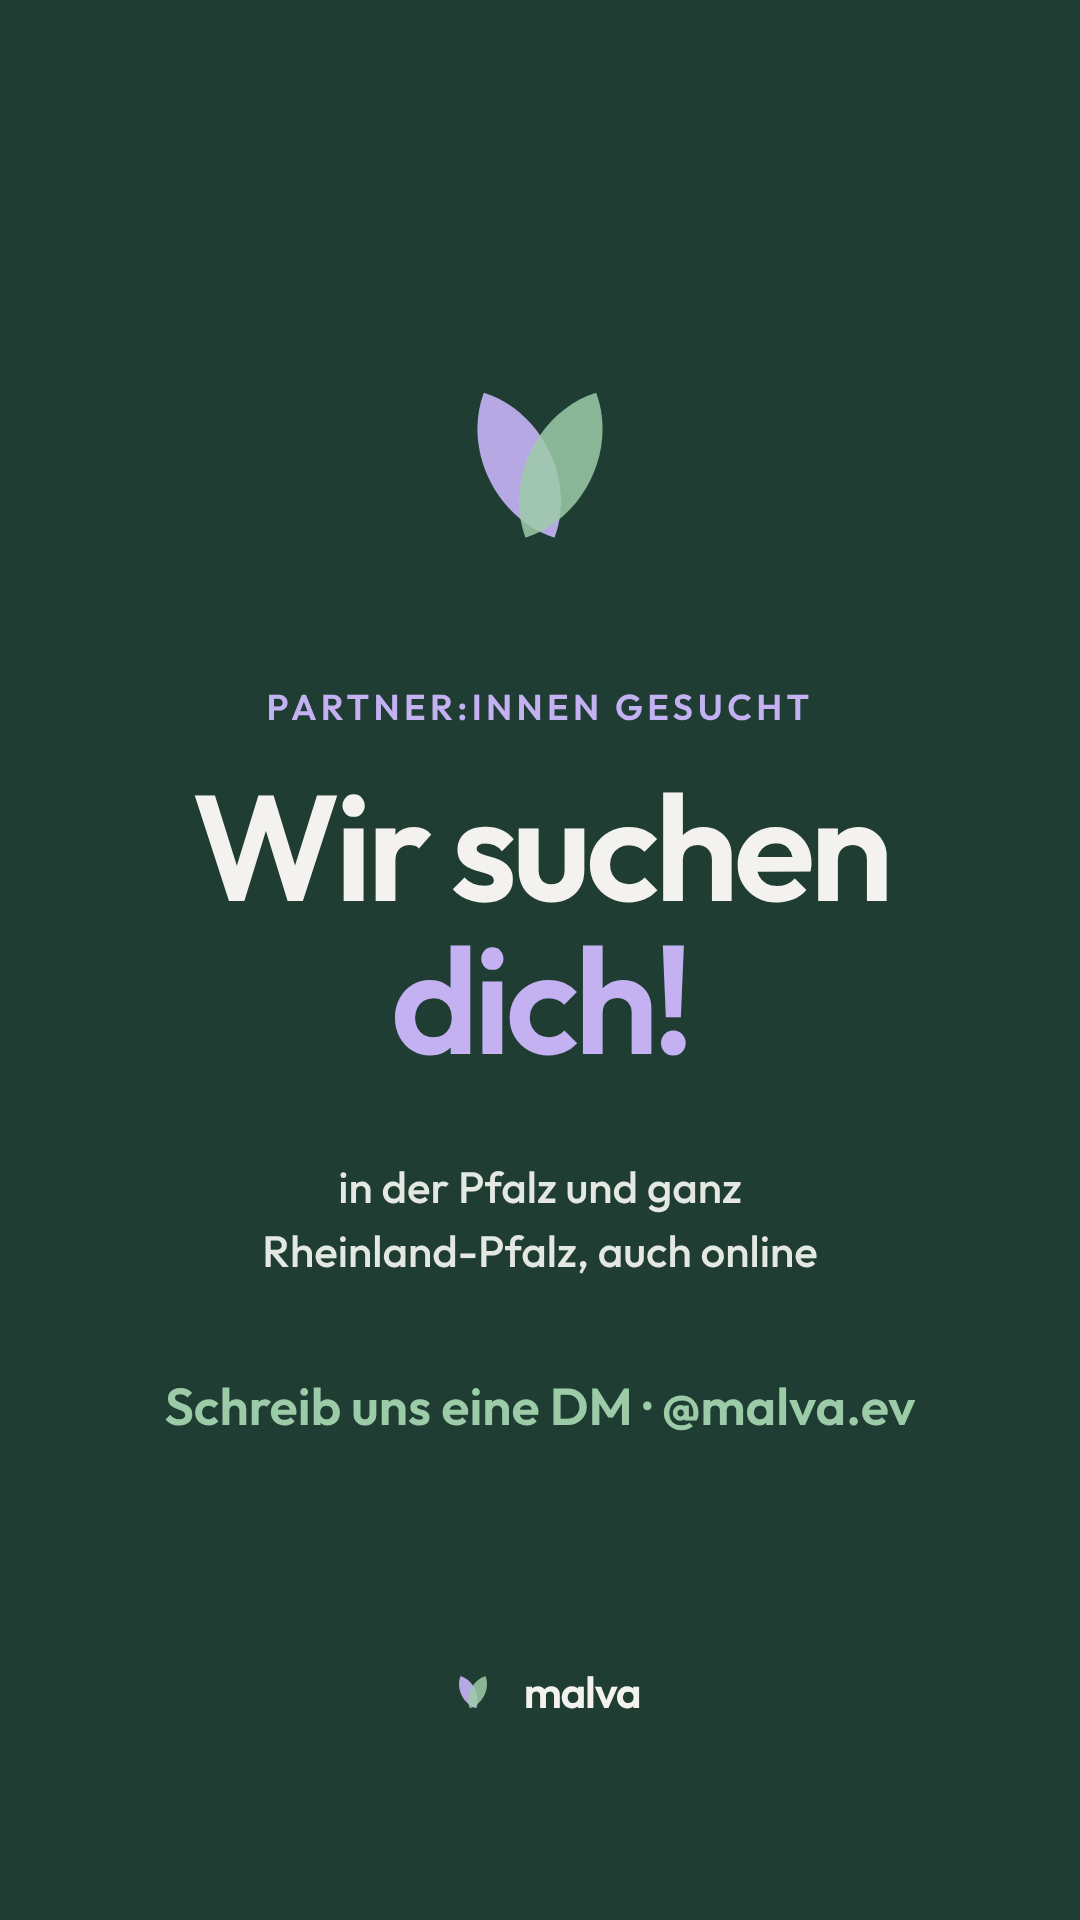
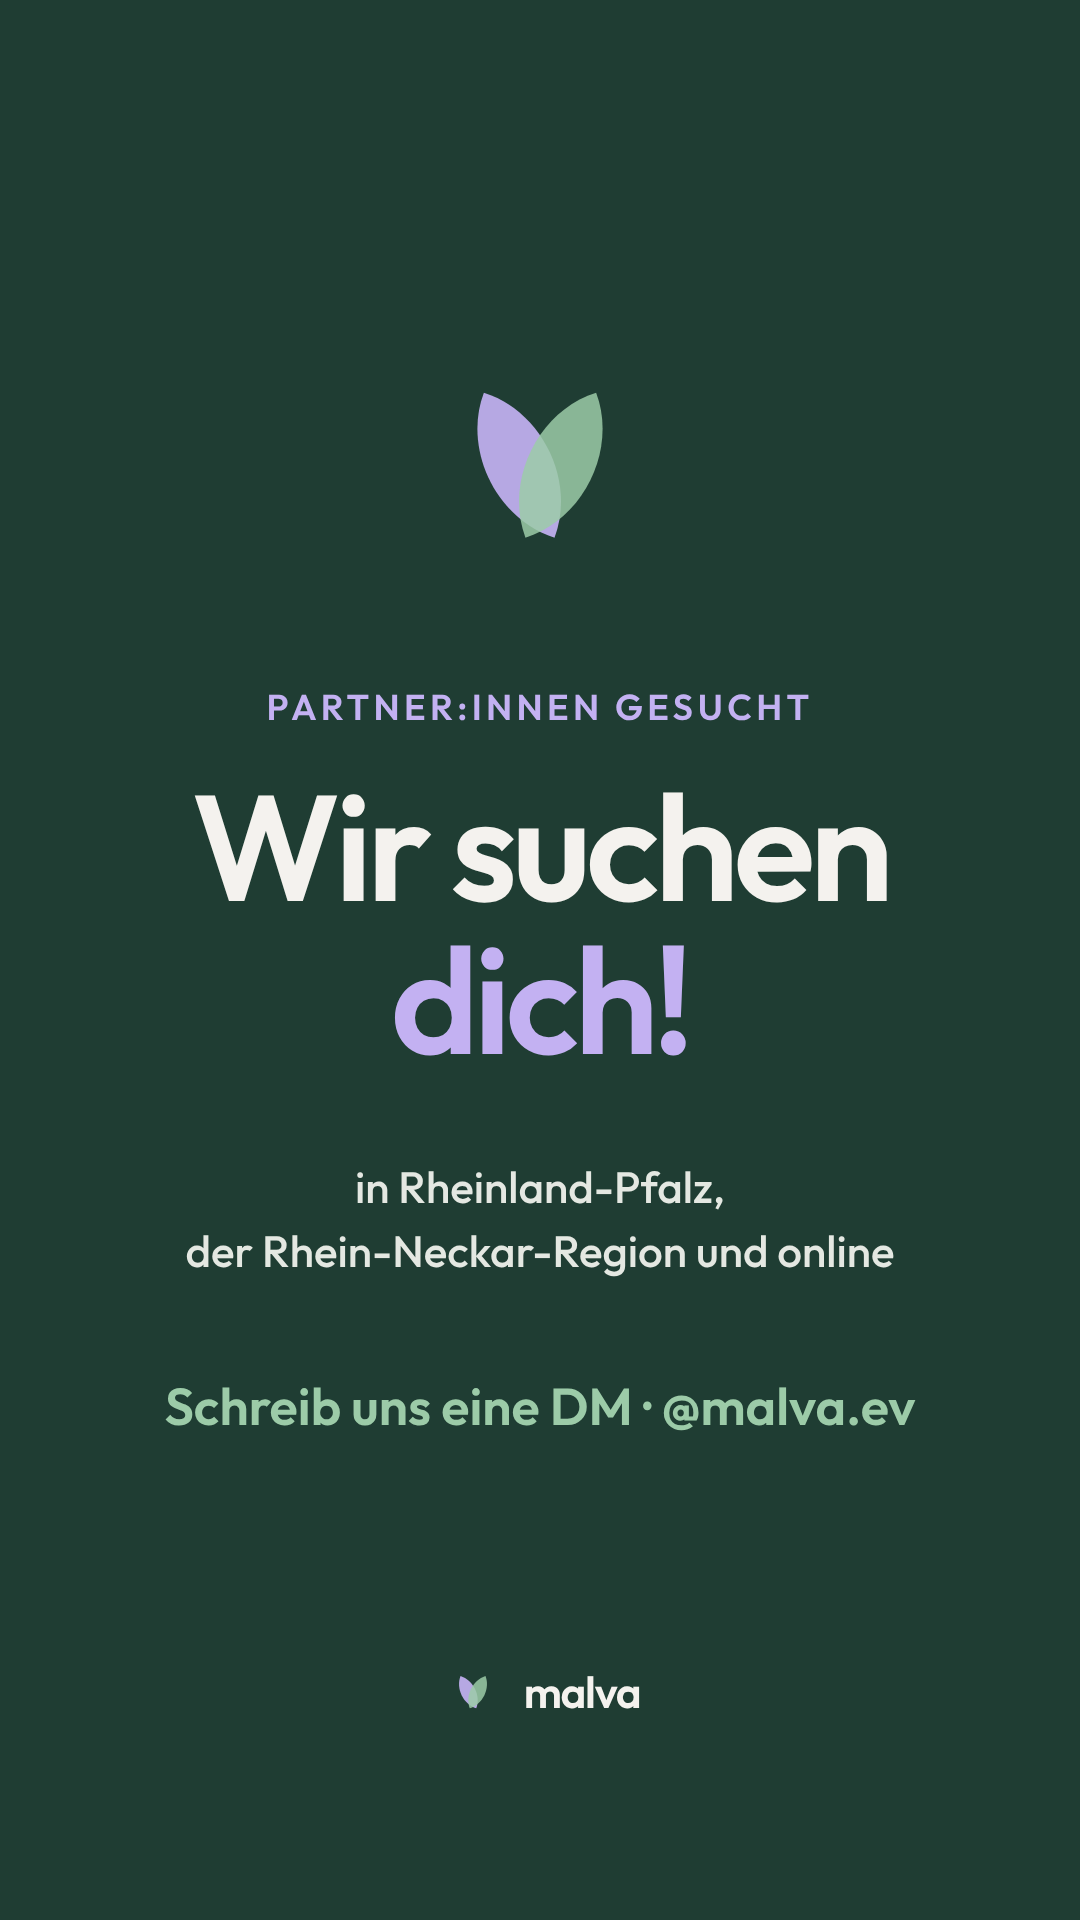
Partner-Post: Rheinland-Pfalz, Rhein-Neckar-Region und online
Claude-Session: https://claude.ai/code/session_015uEer6M6e5oi78ZvJtGjnt

Changed region(s): [[0.3056, 0.5938, 0.825, 0.6875], [0.1833, 0.625, 0.2139, 0.6562]]

diff --git a/malva-website/instagram/partner-gesucht/slides.html b/malva-website/instagram/partner-gesucht/slides.html
@@ -42,14 +42,14 @@ h2{font-weight:600;font-size:82px;line-height:1.12;letter-spacing:-.025em}
   <div class="mark-top" data-mark="d"></div>
   <p class="kicker">Partner:innen gesucht</p>
   <h1 style="font-size:132px">Wir suchen<br><span class="hl">dich!</span></h1>
-  <p class="body">in der Pfalz und ganz Rheinland-Pfalz,<br>auch online</p>
+  <p class="body">in Rheinland-Pfalz,<br><span style="white-space:nowrap">der Rhein-Neckar-Region</span> und online</p>
   <div class="foot"><div class="brand" data-mark="d"><span>malva</span></div><span class="more">Mehr erfahren →</span></div>
 </section>
 
 <section class="slide dark" id="s2">
   <p class="kicker">Warum wir dich brauchen</p>
   <h2>Hilfe braucht Menschen, <span class="hl">die helfen.</span></h2>
-  <p class="body">Malva will Kosten für Therapie und Beratung übernehmen und an passende Fachleute vermitteln. Dafür bauen wir ein Netzwerk in Rheinland-Pfalz auf, vor Ort und online.</p>
+  <p class="body">Malva will Kosten für Therapie und Beratung übernehmen und an passende Fachleute vermitteln. Dafür bauen wir ein Netzwerk in Rheinland-Pfalz und der <span style="white-space:nowrap">Rhein-Neckar-Region</span> auf, vor Ort und online.</p>
   <div class="foot"><div class="brand" data-mark="d"><span>malva</span></div><span class="num">2/6</span></div>
 </section>
 
@@ -94,7 +94,7 @@ h2{font-weight:600;font-size:82px;line-height:1.12;letter-spacing:-.025em}
   <div class="mark-top" style="width:260px" data-mark="d"></div>
   <p class="kicker">Partner:innen gesucht</p>
   <h1 style="font-size:150px">Wir suchen<br><span class="hl">dich!</span></h1>
-  <p class="body" style="margin-top:80px">in der Pfalz und ganz<br>Rheinland-Pfalz, auch online</p>
+  <p class="body" style="margin-top:80px">in Rheinland-Pfalz,<br>der Rhein-Neckar-Region und online</p>
   <p class="sage" style="margin-top:90px">Schreib uns eine DM · @malva.ev</p>
   <div class="foot" style="bottom:200px;justify-content:center"><div class="brand" data-mark="d"><span>malva</span></div></div>
 </section>
